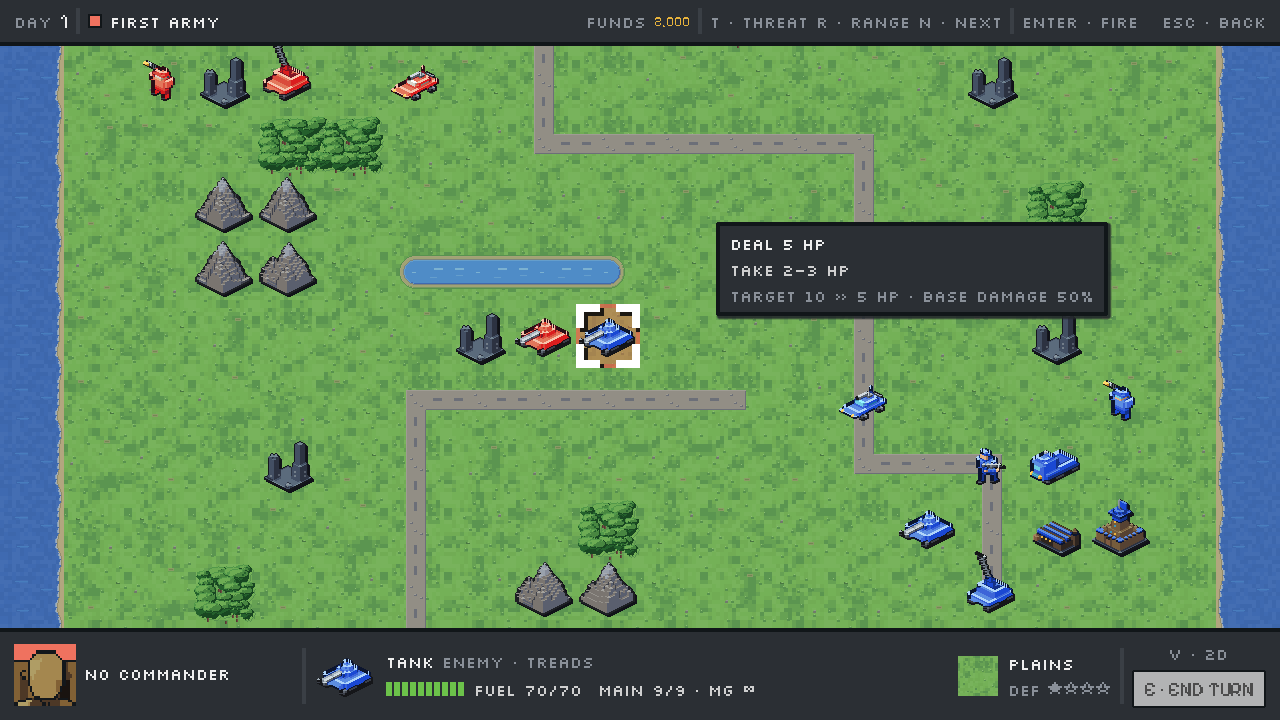
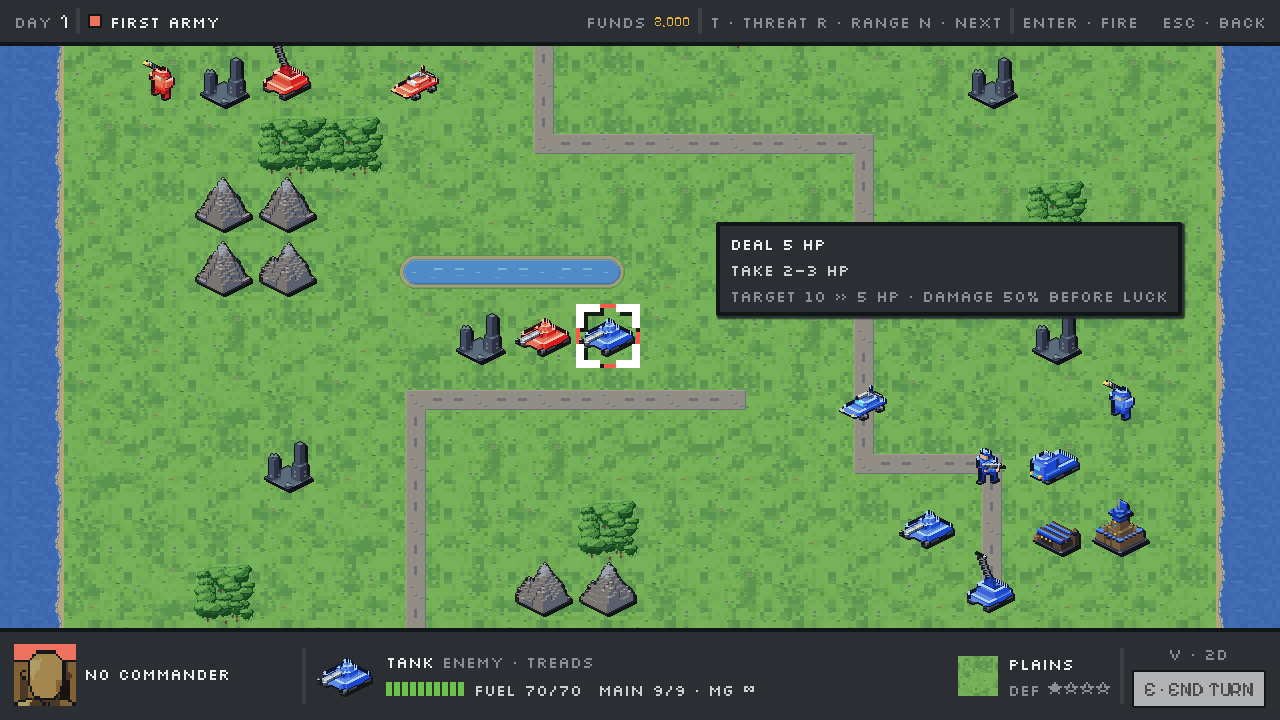
Outline the fire ring in one red and name the damage before luck
The fire ring's translucent wash took its hue from the ground and
tinted the mint reach under it; draw an opaque edge round the fired-at
cells instead, with no fill. The forecast's percentage is the luck-free
damage after HP, cover and doctrine, not the chart's base damage.

Changed region(s): [[0.75, 0.3056, 0.9375, 0.4583], [0.4375, 0.4278, 0.5, 0.5194]]

diff --git a/.claude/rules/presentation.md b/.claude/rules/presentation.md
@@ -238,6 +238,11 @@ forms named in the root index are in `docs/design_record.md`.
   the fill to walk is still the rejected answer. Everything else is presentation, gated by the same
   `perspective.can_see_unit` fog rule targeting uses and then masked to scouted ground by
   `BattlePerspective._viewer_safe`; `make screenshot` stays byte-stable.
+  **The fire paint is an opaque red edge round the fired-at set, with no fill** (playtest ED-24,
+  2026-10-02): a translucent wash took its hue from the ground — orange on grass, purple on water
+  and bridges — and tinted the mint reach under it, so `BattleOverlays.paint_attack` keys each
+  cell's tile to its eight neighbours and draws only the outline. A denser wash is the rejected
+  answer: it hid the reach and the targets' sprites.
 - **Field overlays** (no plan artifact; the *Field Overlays* design handoff, and this entry is its
   record) — the threat lens, the arrowed movement path and the capture pip. **Nothing under `core/`
   or `ai/` was touched, because the handoff's rules helpers already existed**: its `threat()` /

diff --git a/README.md b/README.md
@@ -877,7 +877,7 @@ mouse, keyboard, or controller throughout.
 - Choosing Fire enters targeting: attackable enemies get a red overlay and a panel previews the
   attack and counter damage; confirm on a target to resolve combat, or cancel back to the menu.
   The preview speaks HP out of 10 like every other HP display — "Deal 5–6 HP / Take 2–3 HP",
-  with "Target 10 → 4–5 HP · 55% · luck included" underneath, where the dimmed percentage is
+  with "Target 10 » 4–5 HP · damage 55% before luck" underneath, where the dimmed percentage is
   the luck-free damage kept as secondary detail so a chip attack worth less than a displayed HP
   still shows what it took off. Every bound is the luck range the attack will roll inside — the
   attacker's answers for the opening roll too, since a lucky shot weakens or removes the counter —
